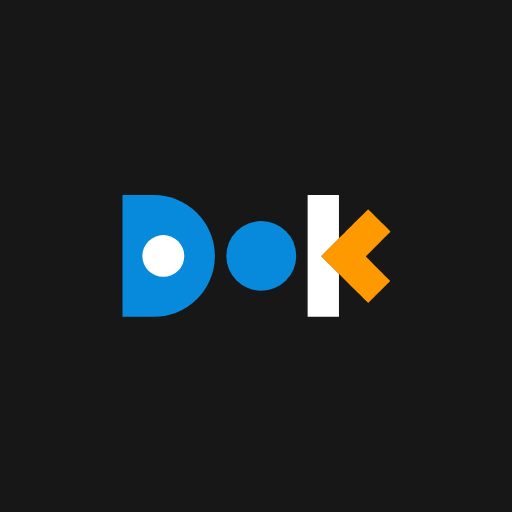
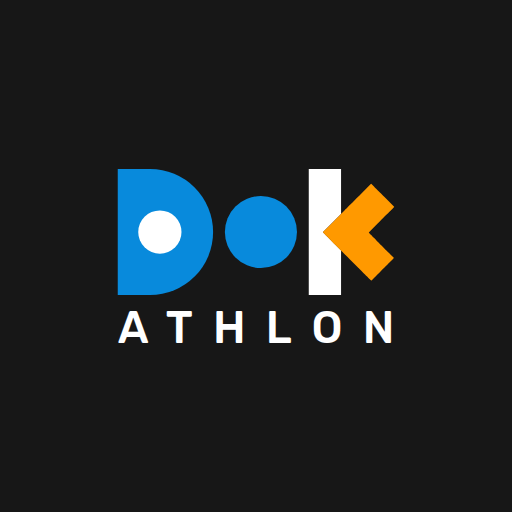
Dok Athlon: icona con ATHLON sotto Dok e nome intero sulla schermata Home

Changed region(s): [[0.2188, 0.3125, 0.7812, 0.6875]]

diff --git a/sw.js b/sw.js
@@ -1,7 +1,7 @@
 // The pages of the app stay on the phone, so it opens at once, also with no network or a weak one (docs/ruoli.md §11). Never the data:
 // those are in IndexedDB (store.js). The app opens from this copy; at each opening the browser checks this file on the network, and a
 // new CACHE fetches all the pages together in the background: the phone uses them from the next opening.
-const CACHE = 'dok-3';
+const CACHE = 'dok-4';
 const SHELL = ['.', 'index.html', 'style.css', 'app.js', 'api.js', 'store.js', 'track.js', 'demo.js', 'manifest.webmanifest', 'icons/icon-192.png', 'icons/icon-512.png', 'icons/lockup.svg'];
 // the pages of the coaches live on the same site and never come from here (Registro 06/11/2026)
 const NOT_HERE = '/allenatori';

diff --git a/index.html b/index.html
@@ -9,7 +9,7 @@
 <meta name="theme-color" content="#10141A">
 <meta name="apple-mobile-web-app-capable" content="yes">
 <meta name="apple-mobile-web-app-status-bar-style" content="black-translucent">
-<meta name="apple-mobile-web-app-title" content="Athlon">
+<meta name="apple-mobile-web-app-title" content="Dok Athlon">
 <title>Dok Athlon</title>
 <link rel="manifest" href="manifest.webmanifest">
 <link rel="icon" href="icons/icon-192.png">
